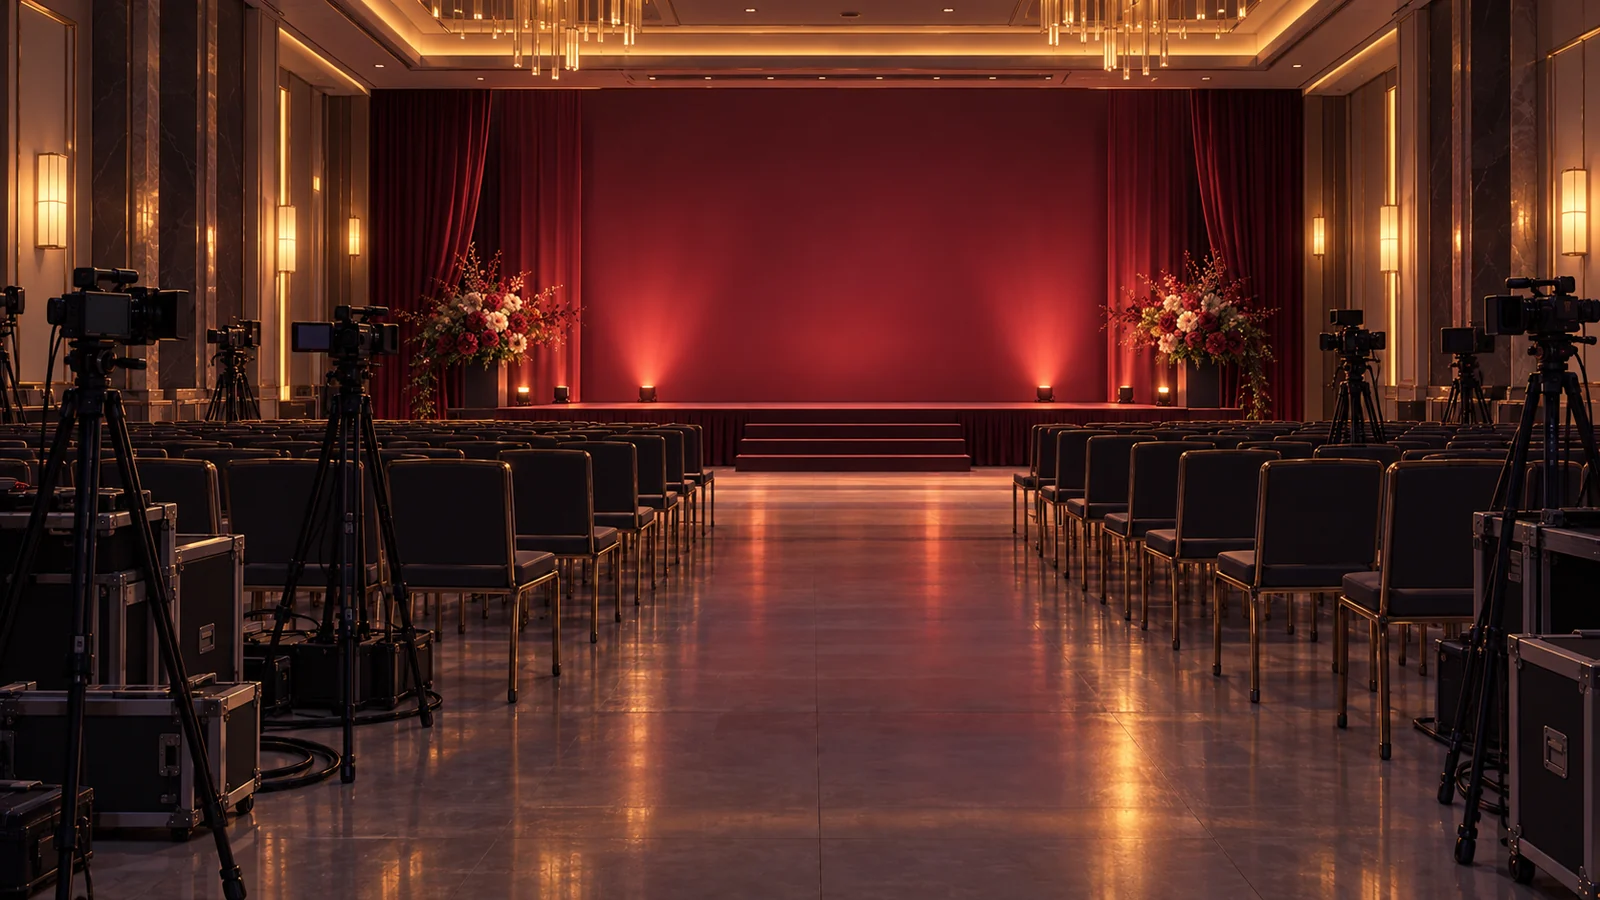
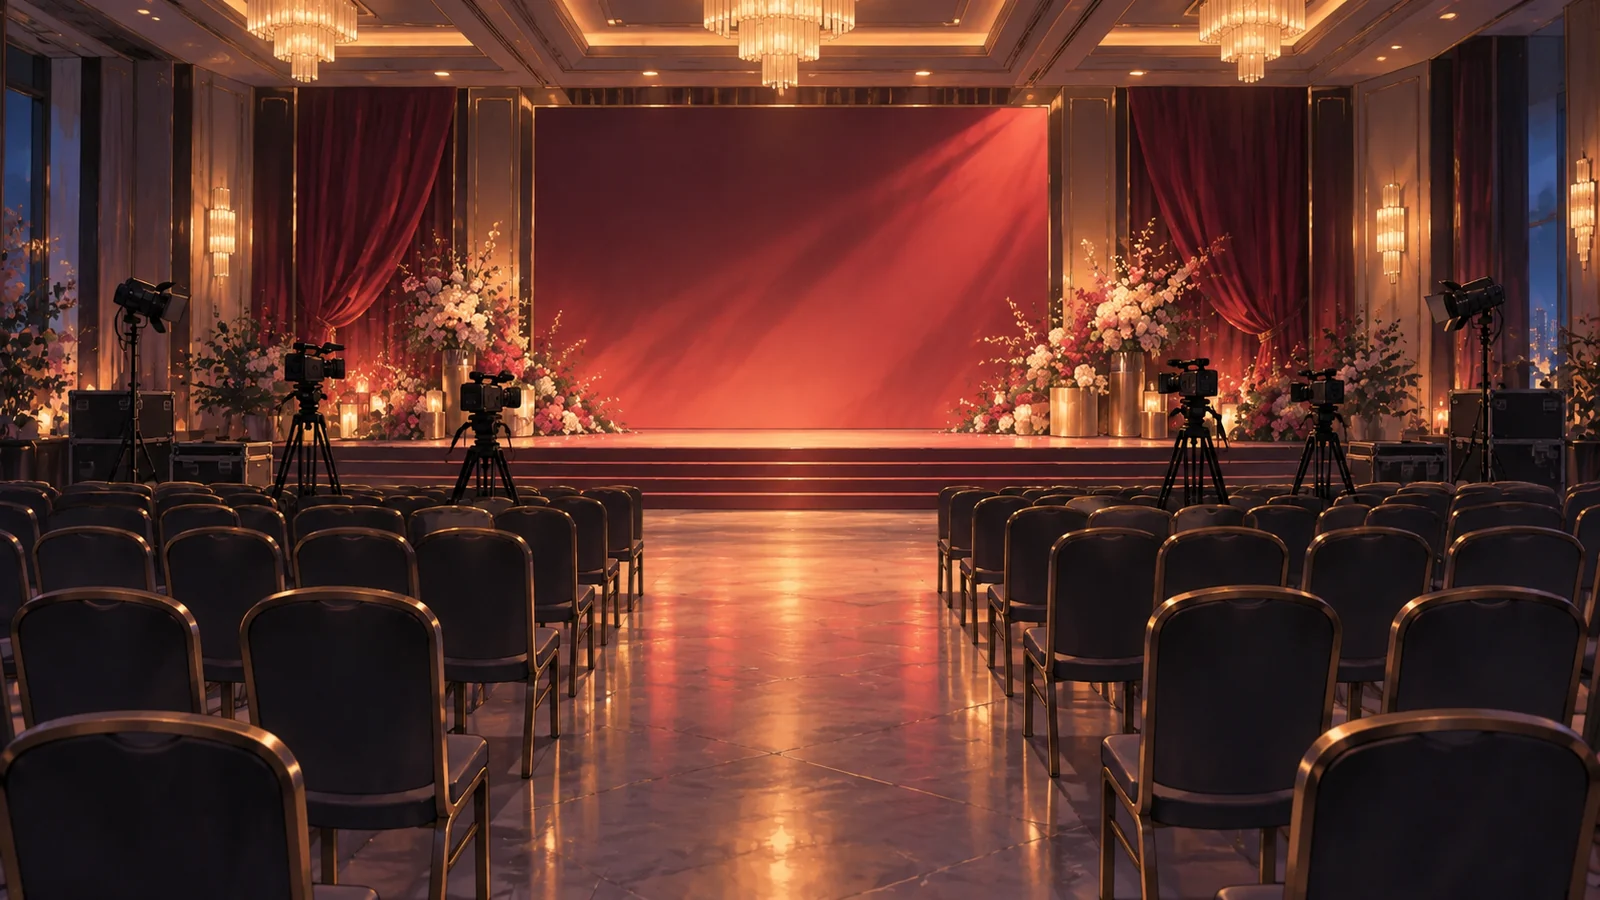
Add files via upload

diff --git a/www/game.js b/www/game.js
@@ -295,6 +295,11 @@ const spotOf=pid=>SPOTS.find(s=>s.rooms?.includes(pid))?.id||pid;
 const inSpot=sp=>M.filter(m=>{const w=S.where[m.id];return !w.startsWith("外出")&&(spotOf(w)===sp)});
 const facesHTML=ms=>!ms.length?"":`<div class="avs">${ms.map(m=>`<span class="face" title="${m.n}" style="--c:${m.c};background-image:url(${spr(m.id,null,"neutral")})"></span>`).join("")}</div>`;
 const L=()=>SLOTS[S.slot].light;
+/* 季節版場景:春 3–5 月、秋 9–11 月、冬 12–2 月有專屬圖,夏季與還沒有圖的時段用原圖 */
+const SEASON_ART={map:["dawn","day","evening","night"],river:["dawn","day","evening","night"]};
+function seasonKey(){const m=dateOf(S.day).getMonth()+1;return m>=3&&m<=5?"spring":m>=9&&m<=11?"autumn":(m===12||m<=2)?"winter":""}
+function seasonArt(dir,name,light){const s=seasonKey();return `assets/${dir}/${name}_${light}${s&&(SEASON_ART[name]||[]).includes(light)?"_"+s:""}.webp`}
+window.seasonKey=seasonKey;
 function setArt(id,url){const a=$("#"+id),b=$("#"+id+"2"),cur=a.dataset.u;if(cur===url) return;
   if(!cur){a.style.backgroundImage=`url(${url})`;a.dataset.u=url;return}
   b.style.backgroundImage=`url(${url})`;b.classList.remove("next");setTimeout(()=>{a.style.backgroundImage=`url(${url})`;a.dataset.u=url;b.classList.add("next")},1250)}
@@ -306,7 +311,7 @@ function renderHud(){const d=dateOf(S.day);
   [...$("#ap").children].forEach((e,i)=>e.classList.toggle("used",i>=S.acts)); $("#actN").textContent=S.acts; $("#badge").textContent=S.unread||""}
 
 function renderWorld(){
-  setArt("worldArt",`assets/scene/map_${L()}.webp`);
+  setArt("worldArt",seasonArt("scene","map",L()));
   $("#worldHot").innerHTML=SPOTS.map(sp=>{
     const [x,y,w,h]=sp.rect, ppl=sp.kind==="locked"?[]:sp.kind==="place"?who(sp.id):inSpot(sp.id);
     const open=sp.kind==="building"?sp.rooms.some(r=>PL[r].open.includes(S.slot)):sp.kind==="place"?PL[sp.id].open.includes(S.slot):false;
@@ -441,7 +446,7 @@ function visit(pid){
   S.acts--; S.visited.push(pid); save(true); setPause("visit",true);
   const ppl=pid==="office"?[]:who(pid).map(m=>m.id);
   V={pid,room:pid,present:ppl,talked:new Set(),summoned:null}; logLines=[];
-  $("#vbg").style.backgroundImage=`url(assets/bg/${pid}_${SLOTS[S.slot].light}.webp)`;
+  $("#vbg").style.backgroundImage=`url(${seasonArt("bg",pid,SLOTS[S.slot].light)})`;
   $("#vtitle").textContent=p.n; $("#vsub").textContent=`${SLOTS[S.slot].n}・${hm()}・剩 ${S.acts} 次行動`;
   drawPeople(); $("#visit").classList.add("on"); $("#vopts").innerHTML="";
   if(pid==="office"){narr(SCN.office); menu(); return}
@@ -488,7 +493,7 @@ window.testPlay=function(sn,onDone){
   const roomOf={practice:"practice",dorm:"living",studio:"studio",office:"office",styling:"styling",out:"store",phone:"bed_"+((sn.who||[])[0]||"ys")};
   const room=roomOf[sn.at]||"practice";
   V={pid:room,room,present:(sn.who||[]).filter(id=>byId(id)),talked:new Set(),summoned:null,test:true}; logLines=[];
-  $("#vbg").style.backgroundImage=`url(assets/bg/${room}_${SLOTS[S.slot].light}.webp)`; $("#vtitle").textContent="試玩"; $("#vsub").textContent="不花行動,也不會影響存檔";
+  $("#vbg").style.backgroundImage=`url(${seasonArt("bg",room,SLOTS[S.slot].light)})`; $("#vtitle").textContent="試玩"; $("#vsub").textContent="不花行動,也不會影響存檔";
   drawPeople(); $("#visit").classList.add("on"); setPause("visit",true); $("#vopts").innerHTML="";
   play({...sn,code:"test"},()=>{ const o=JSON.parse(backup); S.m=o.m; S.flags=o.flags; S.seen=o.seen; save();
     $("#vopts").innerHTML=`<button class="vopt" id="testEnd">試玩結束<small>回到製作者模式</small></button>`;
